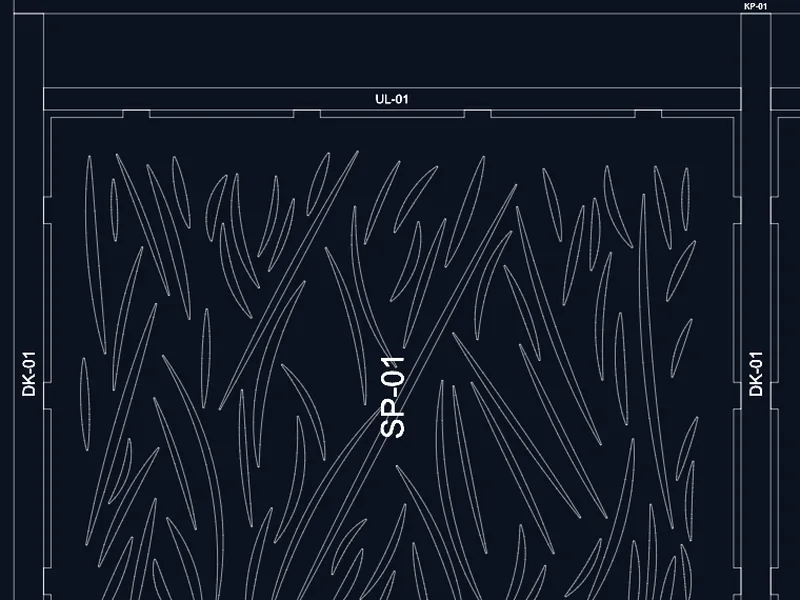
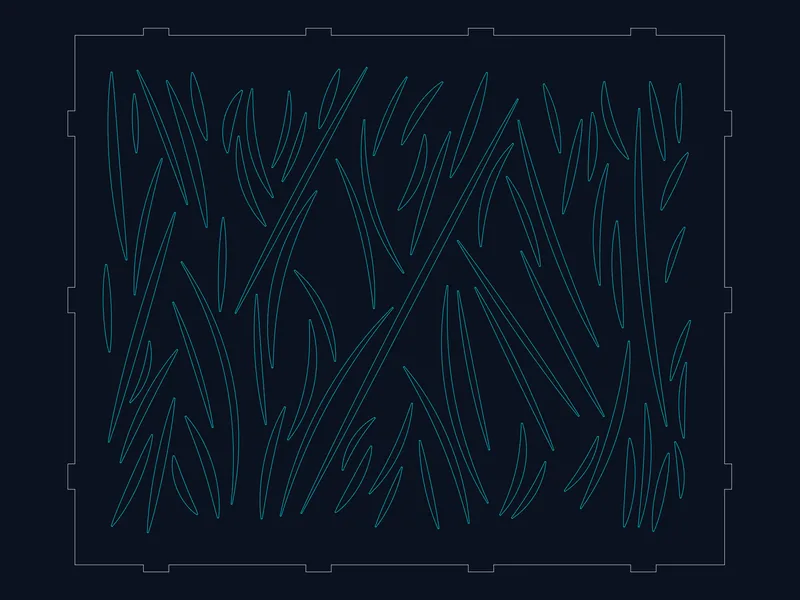
METALIQ: lazer kesim görseli yalnız sacı gösteriyor
Lazere tüm korkuluk değil yalnız sac gider. Lazer kutucuğu artık aracın
DXF'inden ayıklanan SP-01 sacı (TOLE + TOLE-PERCAGE, 940 × 770 mm, 73
kesim); DXF metni ve belge başlığı üç dilde buna göre düzeltildi.

diff --git a/src/i18n/translations.js b/src/i18n/translations.js
@@ -84,7 +84,7 @@ export const translations = {
       outputs: [
         { icon: 'list', title: 'Liste de débit', formats: 'CSV · PDF', text: "Chaque pièce avec son repère, son profil, sa longueur de débit en mm et sa quantité. Coupes d'extrémité (droite, biais, onglet, gueule de loup) et perçages indiqués ; achats et soudures ont leur propre liste." },
         { icon: 'file-text', title: 'Dossier de fabrication', formats: 'PDF · A4 / A3', text: "Plan de pose avec les trous d'ancrage, tableau de débit des barres, plans des platines avec les cotes X/Y des trous, module soudé avec la liste des soudures et l'ordre d'assemblage." },
-        { icon: 'layers', title: 'DXF pour AutoCAD et la découpe laser', formats: 'DXF R12 · mm', text: 'Un calque par type de pièce : montants, platines, lisses, main courante, cotes. Sur un panneau découpé au laser, contours de tôle et perçages ont leurs propres calques. Vous pouvez aussi importer votre motif en DXF.' },
+        { icon: 'layers', title: 'DXF pour AutoCAD et la découpe laser', formats: 'DXF R12 · mm', text: 'Un calque par type de pièce : montants, platines, lisses, main courante, cotes. Pour la découpe laser, la tôle (contour et découpes) est isolée sur ses propres calques : seule la tôle part au laser, pas le garde-corps. Vous pouvez aussi importer votre motif en DXF.' },
       ],
       example: {
         title: 'Exemple : garde-corps droit de 2000 mm',
@@ -102,13 +102,13 @@ export const translations = {
         note: 'Le même garde-corps à 2800 mm passe à deux modules et la liste se recalcule : main courante 2 × 1400 mm, 22 barreaux, 4 platines, lames et platine de jonction, boulonnerie M12 (4 vis, 4 écrous, 8 rondelles) et 20 ancrages.',
       },
       docs: {
-        title: 'Extraits du dossier de fabrication',
+        title: "Extraits des documents d'atelier",
         open: 'ouvrir en grand',
         items: [
           { key: 'dossier', caption: 'Couverture : état du dossier et sommaire', alt: 'Page de couverture du dossier de fabrication : état du dossier, pièces à fabriquer et sommaire' },
           { key: 'platine', caption: 'Platine : trous cotés en X/Y', alt: 'Plan de la platine de pied 120 × 120 × 10 avec quatre trous Ø13 et leurs cotes X/Y' },
           { key: 'module', caption: 'Module soudé : repères et soudures', alt: 'Plan du module de garde-corps soudé, repères dans des bulles, cotes 980, 980 et 2080 mm' },
-          { key: 'laser', caption: 'DXF : panneau découpé laser', alt: 'Extrait du DXF de face : panneau découpé au laser entre deux montants, repères DK-01, UL-01 et SP-01' },
+          { key: 'laser', caption: 'Découpe laser : la tôle seule, 940 × 770 mm', alt: 'Tôle SP-01 du garde-corps, 940 × 770 mm, avec ses 73 découpes : calques TOLE et TOLE-PERCAGE du DXF de METALIQ' },
         ],
       },
       types: {
@@ -292,7 +292,7 @@ export const translations = {
       outputs: [
         { icon: 'list', title: 'Cut list', formats: 'CSV · PDF', text: 'Every part with its mark, profile, cut length in mm and quantity. End cuts (square, bevel, mitre, fish-mouth) and holes are listed; purchased parts and welds have their own list.' },
         { icon: 'file-text', title: 'Fabrication file', formats: 'PDF · A4 / A3', text: 'Setting-out plan with anchor holes, bar cutting table, base-plate drawings with X/Y hole positions, welded module with the weld list and assembly order.' },
-        { icon: 'layers', title: 'DXF for AutoCAD and laser cutting', formats: 'DXF R12 · mm', text: 'One layer per part type: posts, base plates, rails, handrail, dimensions. On a laser-cut panel, sheet contours and holes have their own layers. You can also import your own pattern as DXF.' },
+        { icon: 'layers', title: 'DXF for AutoCAD and laser cutting', formats: 'DXF R12 · mm', text: 'One layer per part type: posts, base plates, rails, handrail, dimensions. For laser cutting, the sheet (outline and cut-outs) sits on its own layers: only the sheet goes to the laser, not the railing. You can also import your own pattern as DXF.' },
       ],
       example: {
         title: 'Example: 2000 mm straight railing',
@@ -310,13 +310,13 @@ export const translations = {
         note: 'The same railing at 2800 mm becomes two modules and the list recalculates: handrail 2 × 1400 mm, 22 balusters, 4 base plates, joint flats and joint plate, M12 bolting (4 bolts, 4 nuts, 8 washers) and 20 anchors.',
       },
       docs: {
-        title: 'From the fabrication file',
+        title: 'From the workshop documents',
         open: 'open full size',
         items: [
           { key: 'dossier', caption: 'Cover: file status and contents', alt: 'Cover page of the fabrication file: file status, parts to make and contents' },
           { key: 'platine', caption: 'Base plate: holes dimensioned in X/Y', alt: 'Drawing of the 120 × 120 × 10 base plate with four Ø13 holes and their X/Y positions' },
           { key: 'module', caption: 'Welded module: marks and welds', alt: 'Drawing of the welded railing module, part marks in balloons, dimensions 980, 980 and 2080 mm' },
-          { key: 'laser', caption: 'DXF: laser-cut panel', alt: 'Detail of the front DXF: laser-cut panel between two posts, marks DK-01, UL-01 and SP-01' },
+          { key: 'laser', caption: 'Laser cutting: the sheet only, 940 × 770 mm', alt: 'Railing sheet SP-01, 940 × 770 mm, with its 73 cut-outs: TOLE and TOLE-PERCAGE layers of the METALIQ DXF' },
         ],
       },
       types: {
@@ -500,7 +500,7 @@ export const translations = {
       outputs: [
         { icon: 'list', title: 'Kesim listesi', formats: 'CSV · PDF', text: 'Her parça poz numarası, profili, mm cinsinden kesim boyu ve adediyle. Uç kesimleri (düz, açılı, gönye, balık ağzı) ve delikler yazılır; satın alınacaklar ve kaynaklar ayrı listede.' },
         { icon: 'file-text', title: 'İmalat dosyası', formats: 'PDF · A4 / A3', text: 'Ankraj delikleriyle montaj planı, çubuk kesim tablosu, delikleri X/Y ölçülü platine çizimleri, kaynak listesi ve montaj sırasıyla kaynaklı modül.' },
-        { icon: 'layers', title: 'AutoCAD ve lazer kesim için DXF', formats: 'DXF R12 · mm', text: 'Her parça türü ayrı katmanda: dikme, platine, lama, küpeşte, ölçüler. Lazer kesim panelde sac konturu ve delikler kendi katmanlarında. Kendi motifinizi de DXF olarak içe alabilirsiniz.' },
+        { icon: 'layers', title: 'AutoCAD ve lazer kesim için DXF', formats: 'DXF R12 · mm', text: 'Her parça türü ayrı katmanda: dikme, platine, lama, küpeşte, ölçüler. Lazer kesim için sac (dış kontur ve kesimler) kendi katmanlarında ayrıdır: lazere korkuluk değil, yalnızca sac gider. Kendi motifinizi de DXF olarak içe alabilirsiniz.' },
       ],
       example: {
         title: 'Örnek: 2000 mm düz korkuluk',
@@ -518,13 +518,13 @@ export const translations = {
         note: "Aynı korkuluk 2800 mm'de iki modüle ayrılır ve liste yeniden hesaplanır: küpeşte 2 × 1400 mm, 22 dolgu çubuğu, 4 platine, birleşim lamaları ve platinesi, M12 bağlantı (4 cıvata, 4 somun, 8 pul) ve 20 ankraj.",
       },
       docs: {
-        title: 'İmalat dosyasından sayfalar',
+        title: 'Atölye belgelerinden örnekler',
         open: 'büyük aç',
         items: [
           { key: 'dossier', caption: 'Kapak: dosya durumu ve içindekiler', alt: 'İmalat dosyasının kapak sayfası: dosya durumu, imal edilecek parçalar ve içindekiler' },
           { key: 'platine', caption: 'Platine: delikler X/Y ölçülü', alt: '120 × 120 × 10 dikme platinesi çizimi, dört Ø13 delik ve X/Y ölçüleri' },
           { key: 'module', caption: 'Kaynaklı modül: pozlar ve kaynaklar', alt: 'Kaynaklı korkuluk modülü çizimi, balonlarda poz numaraları, 980, 980 ve 2080 mm ölçüleri' },
-          { key: 'laser', caption: 'DXF: lazer kesim panel', alt: 'Önden DXF çiziminden kesit: iki dikme arasında lazer kesim panel, DK-01, UL-01 ve SP-01 pozları' },
+          { key: 'laser', caption: 'Lazer kesim: yalnız sac, 940 × 770 mm', alt: 'Korkuluğun SP-01 sacı, 940 × 770 mm, 73 kesimle: METALIQ DXF\'inin TOLE ve TOLE-PERCAGE katmanları' },
         ],
       },
       types: {

diff --git a/CLAUDE.md b/CLAUDE.md
@@ -106,6 +106,12 @@ Yeni bir görev bunlardan birini bozuyorsa **önce nedenini söyle**, sonra doku
   belgeler: kesim listesi, PDF imalat dosyası, AutoCAD ve lazer kesim için
   DXF. **"AutoCAD'e %100 entegre" yazılmaz** (AutoCAD'de açılış test
   edilmedi); yazılan, ölçülen biçimdir: DXF R12, mm, parça türüne göre katman.
+- **Lazere tüm korkuluk değil, yalnız sac gider** (kullanıcı, 2026-10-07).
+  Araç bugün sac-yalnız DXF vermiyor (iki DXF çıktısı da tüm korkuluk; sac
+  `TOLE` + `TOLE-PERCAGE` katmanlarında). Sitedeki lazer görseli bu iki
+  katmanın aracın DXF'inden ayıklanmış hâlidir (SP-01, 940 × 770 mm, 73
+  kesim; `laser_sheet.py`) ve alt metin bunu söyler. Araç sac-yalnız çıktı
+  kazanırsa görsel o çıktıdan yeniden üretilir.
 - Kesim listesi tablosu gerçek çıktıdır (2000 mm korkuluk, canlı araçtan
   ölçüldü; 2800 mm notu da). Araç değişirse `translations.js → metaliq.example`
   üç dilde birlikte güncellenir. Diziler şema denetiminde yalnız uzunlukla
